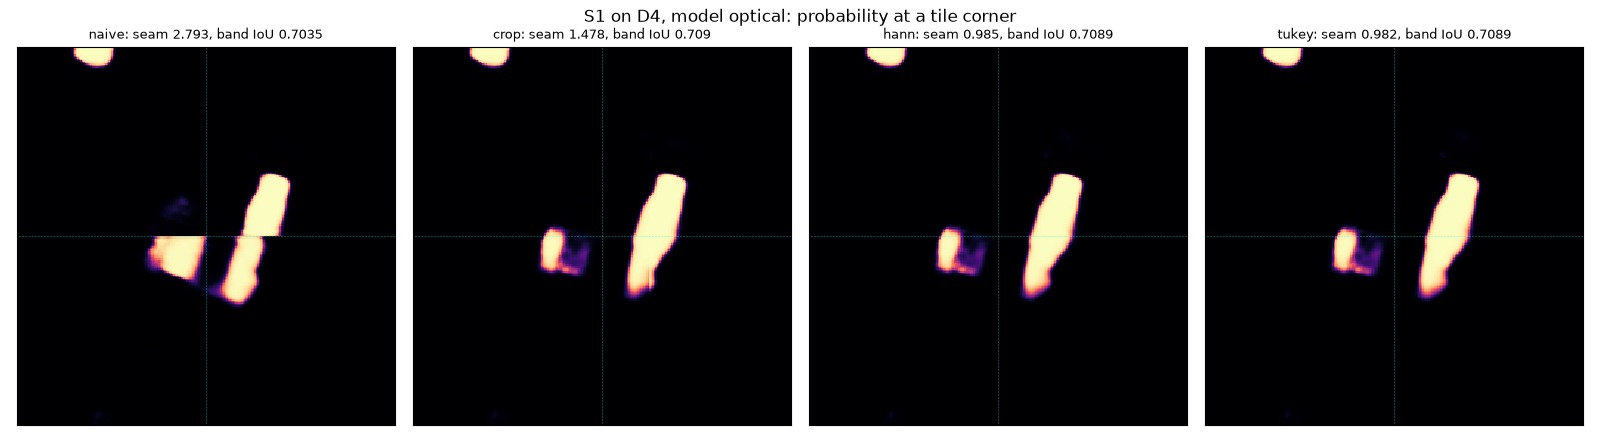
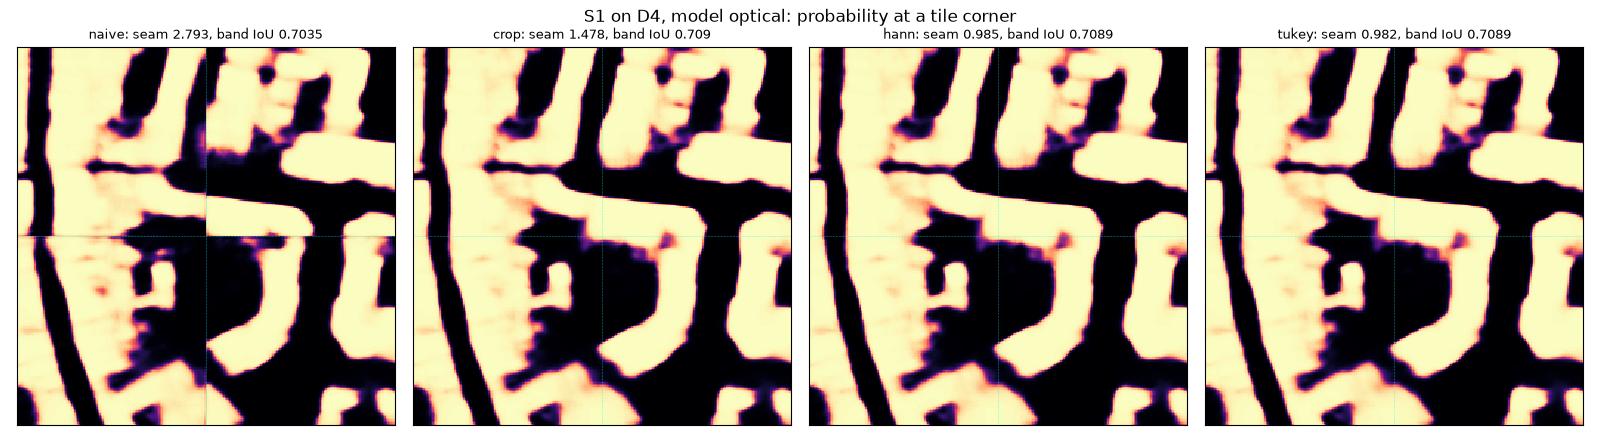
exp: morphology ablation and s1 on the official val extent (#30)

diff --git a/scripts/build_d3val.py b/scripts/build_d3val.py
@@ -1,0 +1,115 @@
+"""Build the D3-val scene: the PS-RGBNIR TrainVal mosaic (D3) cut to the official Val
+extent, with the official All-Val building labels (decision D1: scene-level optical
+evaluation on the official Val extent, which has no D2 tiles).
+
+Writes, in the same layout as D4 so the S1 harness takes either scene, to ``scenes.d3val``:
+``d3val_optical.tif`` (COG), ``d3val_strips.tif`` (1 = inside the extent with optical
+data, 0 = no data), ``d3val_labels.tif`` (Building_ID instances, 0 = background),
+``d3val_buildings.geojson`` (EPSG:32631) and ``d3val.json``.
+
+Usage: uv run python scripts/build_d3val.py
+"""
+
+from __future__ import annotations
+
+import json
+import time
+from dataclasses import replace
+from pathlib import Path
+from typing import Any
+
+import geopandas as gpd
+import numpy as np
+import yaml
+from rasterio.features import rasterize
+from rasterio.windows import Window, from_bounds
+from rasterio.windows import transform as window_transform
+
+from geoinfer.io.config import load_io_config
+from geoinfer.io.paths import assert_writable
+from geoinfer.io.raster import RasterReader, RasterWriter, inspect_raster
+
+TILE_CRS = "EPSG:32631"
+
+
+def main() -> None:
+    t0 = time.perf_counter()
+    dcfg: dict[str, Any] = yaml.safe_load(Path("configs/data.yaml").read_text())
+    raw = Path(dcfg["raw_root"])
+    d3 = Path(dcfg["scenes"]["d3"])
+    out = Path(dcfg["scenes"]["d3val"])
+    io_cfg = load_io_config()
+    assert_writable(out, io_cfg.read_only_roots)
+    out.mkdir(parents=True, exist_ok=True)
+
+    extent = gpd.read_file(raw / dcfg["splits"]["val_scene_extent"]).to_crs(TILE_CRS)
+    poly = extent.union_all()
+    info = inspect_raster(d3)
+    win = from_bounds(*poly.bounds, transform=info.transform).round_offsets().round_lengths()
+    win = win.intersection(Window(0, 0, info.width, info.height))
+    w, h = int(win.width), int(win.height)
+    tr = window_transform(win, info.transform)
+    like = replace(info, transform=tr, width=w, height=h, path=out / "d3val_optical.tif")
+    print(f"D3 window {win} -> {w} x {h} px")
+
+    inside = rasterize([(poly, 1)], out_shape=(h, w), transform=tr, fill=0, dtype="uint8") > 0
+    valid = np.zeros((h, w), dtype=bool)
+    step = io_cfg.cog.blocksize
+    with (
+        RasterReader(d3) as r,
+        RasterWriter(
+            out / "d3val_optical.tif", like, io_cfg, count=4, dtype="uint16", nodata=0
+        ) as wr,
+    ):
+        for r0 in range(0, h, step):
+            n = min(step, h - r0)
+            src = Window(int(win.col_off), int(win.row_off) + r0, w, n)
+            data = r.read(src).data
+            v = np.any(data != 0, axis=0) & inside[r0 : r0 + n]
+            data[:, ~v] = 0
+            valid[r0 : r0 + n] = v
+            wr.write(data, Window(0, r0, w, n))
+
+    bld = gpd.read_file(raw / dcfg["labels"]["val_buildings"]).to_crs(TILE_CRS)
+    bld = bld[bld.geometry.notna() & ~bld.geometry.is_empty & bld.intersects(poly)]
+    bld = bld[["Building_ID", "geometry"]].reset_index(drop=True)
+    labels = rasterize(
+        zip(bld.geometry, bld.Building_ID, strict=True),
+        out_shape=(h, w),
+        transform=tr,
+        fill=0,
+        dtype="uint32",
+    )
+    labels[~valid] = 0
+    for name, arr, nod, res in (
+        ("d3val_strips.tif", valid.astype(np.uint8), 0, "NEAREST"),
+        ("d3val_labels.tif", labels, None, "NEAREST"),
+    ):
+        with RasterWriter(
+            out / name,
+            like,
+            io_cfg,
+            count=1,
+            dtype=arr.dtype.name,
+            nodata=nod,
+            overview_resampling=res,
+        ) as wr:
+            for r0 in range(0, h, step):
+                n = min(step, h - r0)
+                wr.write(arr[None, r0 : r0 + n], Window(0, r0, w, n))
+    bld.to_file(out / "d3val_buildings.geojson", driver="GeoJSON")
+    manifest = {
+        "source": f"{d3.name} cut to {dcfg['splits']['val_scene_extent']}",
+        "labels": dcfg["labels"]["val_buildings"],
+        "grid": {"crs": TILE_CRS, "transform": list(tr)[:6], "width": w, "height": h},
+        "valid_fraction": round(float(valid.mean()), 4),
+        "buildings": len(bld),
+        "building_pixel_fraction_of_valid": round(float((labels > 0).sum() / valid.sum()), 4),
+        "seconds": round(time.perf_counter() - t0, 1),
+    }
+    (out / "d3val.json").write_text(json.dumps(manifest, indent=2) + "\n")
+    print(json.dumps(manifest, indent=2))
+
+
+if __name__ == "__main__":
+    main()

diff --git a/scripts/s1_stitching.py b/scripts/s1_stitching.py
@@ -150,13 +150,16 @@ def main() -> None:
     p.add_argument("--model", choices=["synthetic", "run"], default="synthetic")
     p.add_argument("--run-dir", type=Path, default=None, help="trained run (--model run)")
     p.add_argument("--device", default="cuda")
+    p.add_argument("--scene", default=None, help="key under scenes: in data.yaml (d4, d3val)")
+    p.add_argument("--scene-dir", type=Path, default=None, help="override the scene folder")
     p.add_argument("--out", type=Path, default=None)
     a = p.parse_args()
     ecfg: dict[str, Any] = yaml.safe_load(Path("configs/eval.yaml").read_text())
     dcfg: dict[str, Any] = yaml.safe_load(Path("configs/data.yaml").read_text())
     s1 = ecfg["s1"]
-    scene = Path(dcfg["scenes"][s1["scene"]])
-    labels_path, strips_path = scene / "d4_labels.tif", scene / "d4_strips.tif"
+    key = a.scene or s1["scene"]
+    scene = a.scene_dir or Path(dcfg["scenes"][key])
+    labels_path, strips_path = scene / f"{key}_labels.tif", scene / f"{key}_strips.tif"
     pcfg, tcfg = load_postprocess_config(), load_tiling_config()
     tile, ov = int(s1["tile"]), int(s1["overlap"])
 
@@ -172,19 +175,20 @@ def main() -> None:
     rows, cols = np.union1d(r0_, r1_), np.union1d(c0_, c1_)
     band = border_band((h, w), rows, cols, ecfg["border_band_px"]) & valid
     excl = label_edges(strips, ecfg["strip_join_exclude_px"])
-    gt_poly = filter_by_valid(gpd.read_file(scene / "d4_buildings.geojson"), valid, info.transform)
+    gt_all = gpd.read_file(scene / f"{key}_buildings.geojson")
+    gt_poly = filter_by_valid(gt_all, valid, info.transform)
     threshold = pcfg.threshold
     if a.model == "run":
         if a.run_dir is None:
             raise SystemExit("--model run needs --run-dir")
-        run_model = RunModel(a.run_dir, scene / "d4_optical.tif", tcfg.pad_mode, a.device)
+        run_model = RunModel(a.run_dir, scene / f"{key}_optical.tif", tcfg.pad_mode, a.device)
         threshold = run_model.threshold
         model_name = run_model.name
         print(f"run {model_name}: threshold {threshold}, amp {run_model.amp_reason}")
     else:
         synth = SyntheticEdgeModel(s1["synthetic"], tile)
         model_name = "synthetic"
-    out = a.out or Path(f"docs/figures/s1_d4_{model_name}")
+    out = a.out or Path(f"docs/figures/s1_{key}_{model_name}")
 
     results: dict[str, Any] = {}
     probs: dict[str, np.ndarray] = {}
@@ -244,7 +248,7 @@ def main() -> None:
         print(strategy, results[strategy])
 
     meta = {
-        "scene": f"{s1['scene']} {w} x {h} px",
+        "scene": f"{key} {w} x {h} px",
         "model": model_name,
         "tile": tile,
         "overlap": ov,
@@ -264,9 +268,14 @@ def main() -> None:
     out_json.write_text(json.dumps({"meta": meta, "results": results}, indent=2) + "\n")
     print(f"wrote {out_json}")
 
-    # seam close-ups: a window around a tile corner of the O = 0 grid
-    yc = int(rows[np.argmin(np.abs(rows - h // 2))])
-    xc = int(cols[np.argmin(np.abs(cols - w // 2))])
+    # seam close-ups: the crossing of seam lines with the most labelled building pixels
+    # within 128 px (so the panel shows roofs, not water)
+    cands = [
+        (int(r), int(c)) for r in r0_ for c in c0_ if 128 <= r < h - 128 and 128 <= c < w - 128
+    ]
+    yc, xc = max(
+        cands, key=lambda rc: int(gt[rc[0] - 128 : rc[0] + 128, rc[1] - 128 : rc[1] + 128].sum())
+    )
     win = (slice(yc - 128, yc + 128), slice(xc - 128, xc + 128))
     fig, ax = plt.subplots(1, len(probs), figsize=(4 * len(probs), 4.4), dpi=100)
     for x, (name, pr) in zip(np.atleast_1d(ax), probs.items(), strict=True):
@@ -277,7 +286,7 @@ def main() -> None:
         x.set_title(f"{name}: seam {r['seam_score']}, band IoU {r['border_band_iou']}", fontsize=9)
         x.set_xticks([])
         x.set_yticks([])
-    fig.suptitle(f"S1 on D4, model {model_name}: probability at a tile corner")
+    fig.suptitle(f"S1 on {key.upper()}, model {model_name}: probability at a tile corner")
     fig.tight_layout()
     fig.savefig(out.with_suffix(".png"))
     print(f"figure: {out.with_suffix('.png')}")

diff --git a/src/geoinfer/train/evaluate.py b/src/geoinfer/train/evaluate.py
@@ -5,9 +5,10 @@
    prediction is in map orientation.
 2. :func:`threshold_sweep` / :func:`best_threshold` pick the probability threshold with
    the highest pixel IoU on the tune split.
-3. :func:`score_predictions` reports pixel IoU / F1 before and after the module (d)
-   clean-up, and object F1 (SpaceNet matching, IoU >= 0.5, < 20 m2 ignored) against
-   each tile's label polygons, overall and per look direction.
+3. :func:`score_predictions` reports pixel IoU / F1 and object F1 before and after the
+   module (d) clean-up (the morphology ablation); object F1 uses SpaceNet matching
+   (IoU >= 0.5, < 20 m2 ignored) against each tile's label polygons; overall and per
+   look direction.
 """
 
 from __future__ import annotations
@@ -136,6 +137,8 @@ def score_predictions(
         else:
             gt = gpd.GeoDataFrame(geometry=[], crs=info.crs)
         obj = object_scores(pred_gdf, gt, pcfg.min_area_m2)
+        raw_gdf = to_geodataframe(polygonize(raw, info.transform, pcfg.connectivity), info.crs)
+        obj_raw = object_scores(raw_gdf, gt, pcfg.min_area_m2)
         for key in ("all", str(p.orientation)):
             g = groups.setdefault(
                 key,
@@ -145,6 +148,9 @@ def score_predictions(
                     "tp": 0,
                     "fp": 0,
                     "fn": 0,
+                    "tp_raw": 0,
+                    "fp_raw": 0,
+                    "fn_raw": 0,
                     "tiles": 0,
                 },
             )
@@ -153,21 +159,22 @@ def score_predictions(
             g["tp"] += obj.tp
             g["fp"] += obj.fp
             g["fn"] += obj.fn
+            g["tp_raw"] += obj_raw.tp
+            g["fp_raw"] += obj_raw.fp
+            g["fn_raw"] += obj_raw.fn
             g["tiles"] += 1
 
-    def summary(g: Mapping[str, Any]) -> dict[str, Any]:
-        tp, fp, fn = g["tp"], g["fp"], g["fn"]
+    def objects(tp: int, fp: int, fn: int) -> dict[str, Any]:
         f1 = 2 * tp / (2 * tp + fp + fn) if (2 * tp + fp + fn) else math.nan
+        return {"tp": tp, "fp": fp, "fn": fn, "f1": None if math.isnan(f1) else round(f1, 4)}
+
+    def summary(g: Mapping[str, Any]) -> dict[str, Any]:
         return {
             "tiles": g["tiles"],
             "pixel_raw": _round(pixel_scores(g["raw"])),
             "pixel_clean": _round(pixel_scores(g["clean"])),
-            "object": {
-                "tp": tp,
-                "fp": fp,
-                "fn": fn,
-                "f1": None if math.isnan(f1) else round(f1, 4),
-            },
+            "object": objects(g["tp"], g["fp"], g["fn"]),
+            "object_raw": objects(g["tp_raw"], g["fp_raw"], g["fn_raw"]),
         }
 
     overall = summary(groups["all"]) if "all" in groups else {}

diff --git a/tests/unit/test_evaluate.py b/tests/unit/test_evaluate.py
@@ -102,6 +102,7 @@ def test_perfect_predictions_score_one(scene: dict, io_cfg: IOConfig) -> None:
     assert out["pixel_clean"]["iou"] == 1.0
     assert out["object"]["f1"] == 1.0
     assert out["object"]["tp"] == 2  # one 48 m2 building per tile
+    assert out["object_raw"]["f1"] == 1.0  # before the clean-up as well
     assert set(out["by_orientation"]) == {"0", "1"}
     assert out["tiles"] == 2
 
@@ -146,3 +147,18 @@ def test_load_run_rebuilds_model_and_dataset(scene: dict, tmp_path) -> None:
     assert ds[0]["image"].shape == (8, 64, 64)
     cloudy = lr.dataset(lst, optical_corrupt=TileClouds(0.5, 2.2, 0.15, [900.0] * 4, 1))[0]
     assert not np.array_equal(cloudy["image"][:4], ds[0]["image"][:4])
+
+
+def test_object_scores_before_and_after_cleanup(scene: dict, io_cfg: IOConfig) -> None:
+    preds = []
+    for p in predict_tiles(FirstChannel(), _eval_ds(scene, io_cfg, False), "cpu", amp=False):
+        prob = p.mask.astype(np.float32)
+        prob[40:44, 30:32] = 1.0  # a 2 m2 speck: kept raw, removed by opening
+        prob[50:58, 20:32] = 1.0  # a 24 m2 false building: survives the clean-up
+        preds.append(TilePrediction(p.tile_id, p.strip, p.orientation, prob, p.mask, p.valid))
+    recs = {r.tile_id: r for r in _records(scene)}
+    out = score_predictions(preds, recs, threshold=0.5, pcfg=PCFG)
+    # specks under 20 m2 are ignored by the matcher, so both see the 24 m2 false building
+    assert out["object_raw"]["fp"] == 2
+    assert out["object"]["fp"] == 2
+    assert out["pixel_raw"]["iou"] < out["pixel_clean"]["iou"]  # the speck costs pixels

diff --git a/docs/experiments.md b/docs/experiments.md
@@ -205,3 +205,46 @@ global = E2 `sar`). Same evaluation as E4. Runs: `models/s2/*_seed{1,2}` (DVC).
 - S2 conclusion for SAR: dB conversion is the large, certain gain (+0.07 IoU, +0.11
   object F1 over linear); per-strip normalisation adds a small object-level gain; speckle
   filtering before a CNN is not worth it here.
+
+## E8. Morphology ablation: object F1 before and after clean-up (2026-11-09)
+
+`score_predictions` now also scores the raw thresholded mask at object level
+(`object_raw` in `eval.json`); the S3 models were re-evaluated (val split, tuned
+thresholds). Clean-up = opening 3, closing 3, components < 20 m2 removed.
+
+| Model | Object F1 raw -> clean | FP raw -> clean | FN raw -> clean | Pixel IoU raw -> clean |
+|---|---|---|---|---|
+| optical | 0.513 -> 0.508 | 7968 -> 7913 | 16206 -> 16378 | 0.682 -> 0.682 |
+| SAR | **0.223 -> 0.244** | 10251 -> 10352 | 24028 -> 23480 | 0.479 -> 0.466 |
+| fused | 0.517 -> 0.519 | 8042 -> 7686 | 16056 -> 16104 | 0.688 -> 0.685 |
+| optical, cloud-trained | 0.509 -> 0.505 | 8491 -> 8324 | 16166 -> 16337 | 0.686 -> 0.685 |
+| fused, cloud-trained | 0.505 -> 0.507 | 7816 -> 7445 | 16537 -> 16588 | 0.680 -> 0.676 |
+
+**Reading:** the clean-up helps SAR at object level (+0.021 F1): closing joins the
+fragmented SAR detections of one building, so fewer buildings are missed (FN -548). For
+optical and fused it is neutral (within 0.005): their masks are already clean, opening
+removes a few false positives and closing merges a few neighbours. It always costs a
+little pixel IoU (up to 0.013 for SAR). Keep it for SAR and fused outputs; for optical
+it is optional.
+
+## E9. S1 on the official Val extent (D3-val) (2026-11-09)
+
+`scripts/build_d3val.py`: the D3 PS-RGBNIR TrainVal mosaic cut to the official Val
+extent (7444 x 16200 px, 121 Mpx, 99.3 % valid) with the official All-Val labels (8396
+buildings, 14.3 % of valid pixels); no D2 tile lies in this extent (D1), so this is the
+held-out scene-level test. Same harness and model as E3 (optical, threshold 0.55), on the
+server GPU.
+
+| Strategy | Scene IoU | Border-band IoU | Seam score | Object F1 | Tile + stitch |
+|---|---|---|---|---|---|
+| naive (O 0) | 0.702 | 0.700 | 3.23 | 0.539 | 28 s |
+| crop | 0.709 | 0.709 | 1.65 | 0.548 | 32 s |
+| Hann | 0.709 | 0.709 | 0.995 | 0.549 | 29 s |
+| Tukey | 0.709 | 0.709 | 0.993 | 0.549 | 29 s |
+
+**Reading:** the same picture as D4 on a scene three times larger with the official
+labels, and a slightly larger accuracy gain from overlap (+0.009 border-band IoU, +0.010
+object F1). Seams go from 3.23 (naive) to 1.65 (crop) to 0.99 (blending). The close-ups
+(`s1_d3val_optical.png`, `s1_d4_optical.png`) now sit at the seam crossing with the most
+labelled buildings; on D3-val two tiles disagree about a large structure, which naive
+pasting cuts with a hard edge and blending turns into a gradient.

diff --git a/README.md b/README.md
@@ -64,7 +64,8 @@ reading in `docs/experiments.md`; checkpoints, ONNX models and run records in DV
 | S3 clouds | trained without clouds, optical and fused fall below SAR alone at 20 % cloud cover; cloud augmentation keeps them at 0.61-0.62 IoU at 40 %, and at 80 % only the cloud-trained fused model (0.527) beats SAR alone (0.479) | E6 |
 | S2 SAR | dB vs linear +0.07 IoU, +0.11 object F1; over 3 seeds the dB arms tie on pixel IoU, per-strip normalisation is best on object F1 (0.264 vs 0.248 for the same Lee 7 filter), Lee 5 worst; speckle filtering does not help the CNN | E4, E7 |
 | S2 optical | per-tile min-max = global stretch on tile IoU (0.681 vs 0.682), but leaves seams after stitching (seam score 2.60 vs 0.92) | E4, S2 figures |
-| S1 stitching | real optical model on D4: overlap adds +0.005 border-band IoU; seam score 2.79 (naive) -> 1.48 (crop) -> 0.98 (Hann / Tukey) | E3 |
+| S1 stitching | real optical model; D4: overlap +0.005 border-band IoU, seam score 2.79 (naive) -> 1.48 (crop) -> 0.98 (Hann / Tukey); official Val extent (D3-val, 121 Mpx): +0.009 border-band IoU, +0.010 object F1, seams 3.23 -> 0.99 | E3, E9 |
+| Morphology | clean-up raises SAR object F1 0.223 -> 0.244 (closing joins fragments); neutral for optical and fused; costs up to 0.013 pixel IoU | E8 |
 | Baseline | classical Otsu on SAR: best 0.168 pixel IoU (Lee 7, per-strip threshold) | `otsu_d4.json` |
 | Export | ONNX (dynamic batch, h, w) matches PyTorch to 2.4e-5 in logits | E5 |
 
